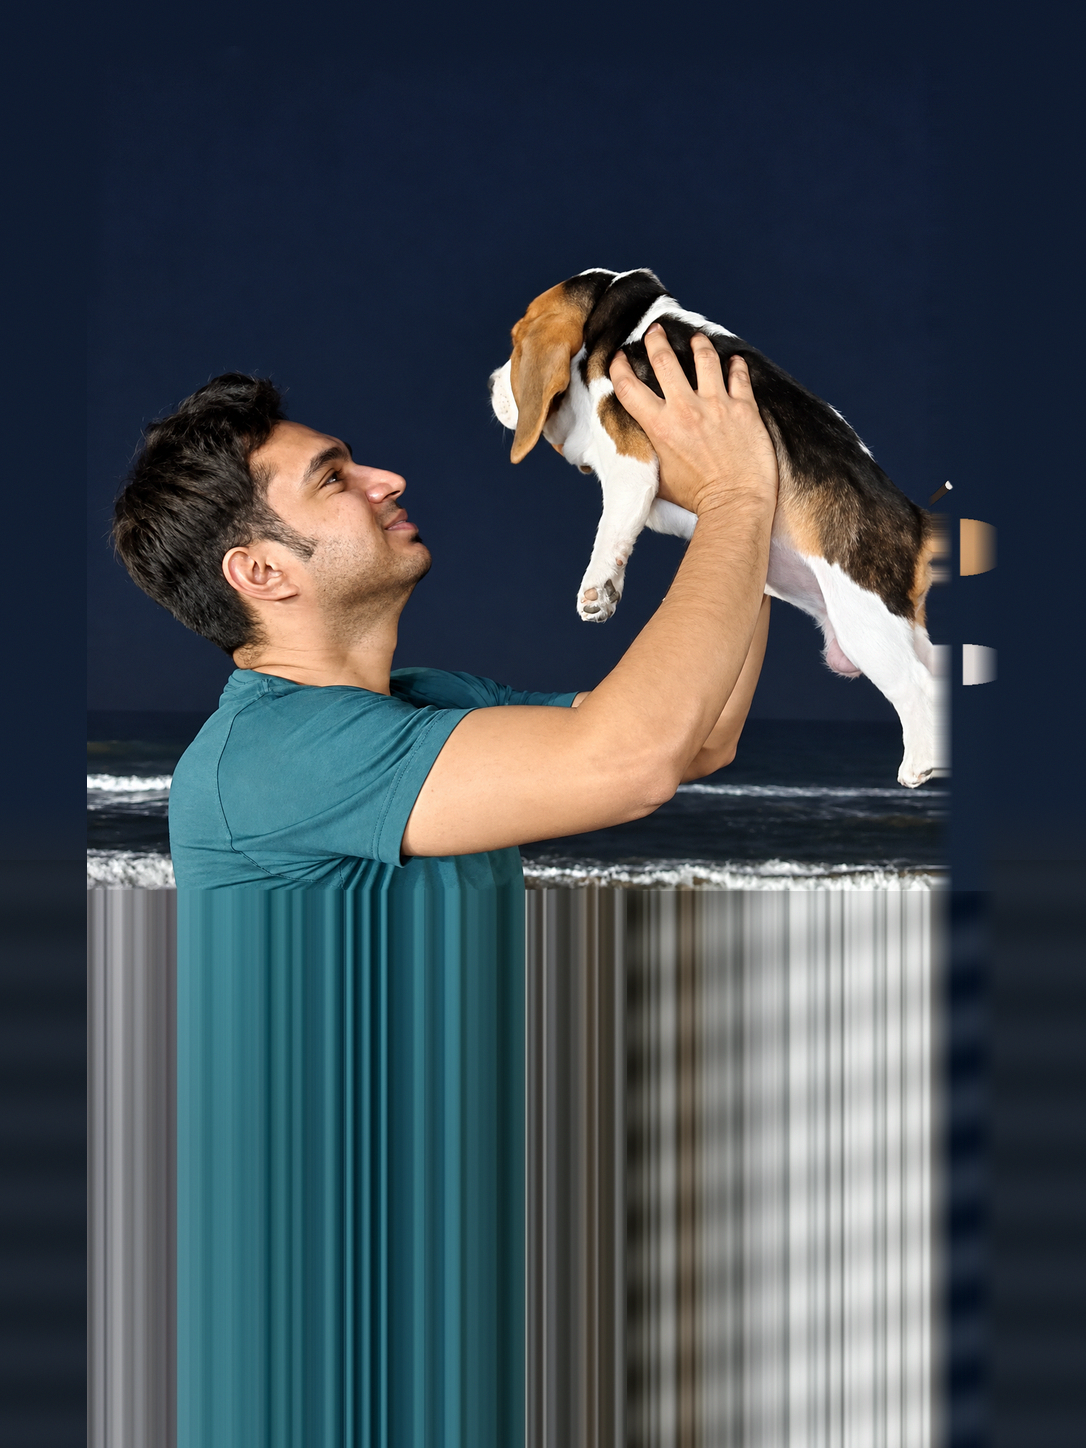
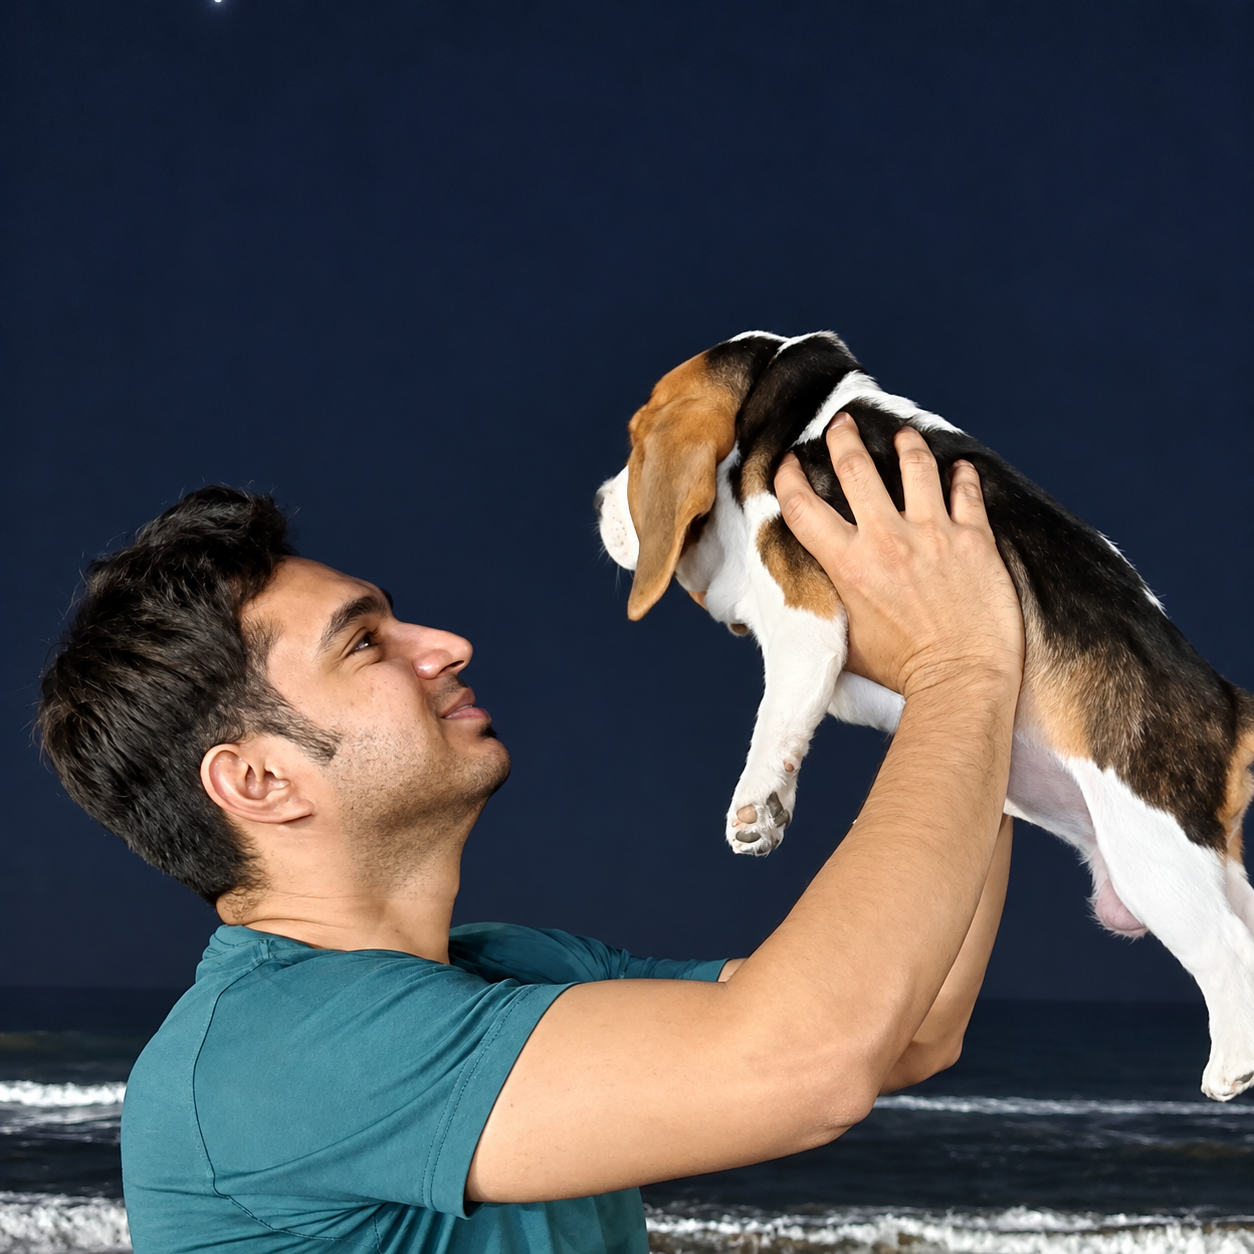
Restore original clean photo for Akash Bhaskar family card and bump cache busters

diff --git a/blog.html b/blog.html
@@ -132,7 +132,7 @@
               Some of the biggest things in life begin without us having the faintest idea of what they might become. For me, it began with a gift from my sister and brother-in-law, a viral 9GAG head-tilt, and a mother whose vision turned a cozy home into an international movement of kindness.
             </p>
             <div class="post-author-box">
-              <img src="images/family-akash.png" alt="Akash" class="author-avatar">
+              <img src="images/family-akash.png?v=2.0" alt="Akash" class="author-avatar">
               <div class="author-info">
                 <h4>Akash Bhaskar</h4>
                 <span>Co-Founder &amp; Scotch’s Dad</span>
@@ -173,7 +173,7 @@
               </p>
               <div class="blog-card-footer">
                 <div class="blog-card-author">
-                  <img src="images/family-akash.png" alt="Akash" class="blog-card-author-avatar">
+                  <img src="images/family-akash.png?v=2.0" alt="Akash" class="blog-card-author-avatar">
                   <span>Akash Bhaskar</span>
                 </div>
                 <span class="read-story-link">Read Story <i class="fas fa-arrow-right"></i></span>
@@ -204,7 +204,7 @@
               </p>
               <div class="blog-card-footer">
                 <div class="blog-card-author">
-                  <img src="images/family-akash.png" alt="Akash" class="blog-card-author-avatar">
+                  <img src="images/family-akash.png?v=2.0" alt="Akash" class="blog-card-author-avatar">
                   <span>Akash Bhaskar</span>
                 </div>
                 <span class="read-story-link">Read Story <i class="fas fa-arrow-right"></i></span>
@@ -452,7 +452,7 @@
           const readerAvatar = document.getElementById('reader-avatar');
           if (readerAvatar) {
             if (author.toLowerCase().includes('akash')) {
-              readerAvatar.src = 'images/family-akash.png';
+              readerAvatar.src = 'images/family-akash.png?v=2.0';
             } else {
               readerAvatar.src = 'images/scotchvilla-logo.png';
             }

diff --git a/index.html b/index.html
@@ -662,7 +662,7 @@
               <div class="puppy-carousel-item tint-coral">
                 <div class="puppy-card-inner">
                   <div class="puppy-img-placeholder">
-                    <img src="images/family-akash.png"
+                    <img src="images/family-akash.png?v=2.0"
                          alt="Akash Bhaskar"
                          width="768" height="968"
                          loading="lazy">
